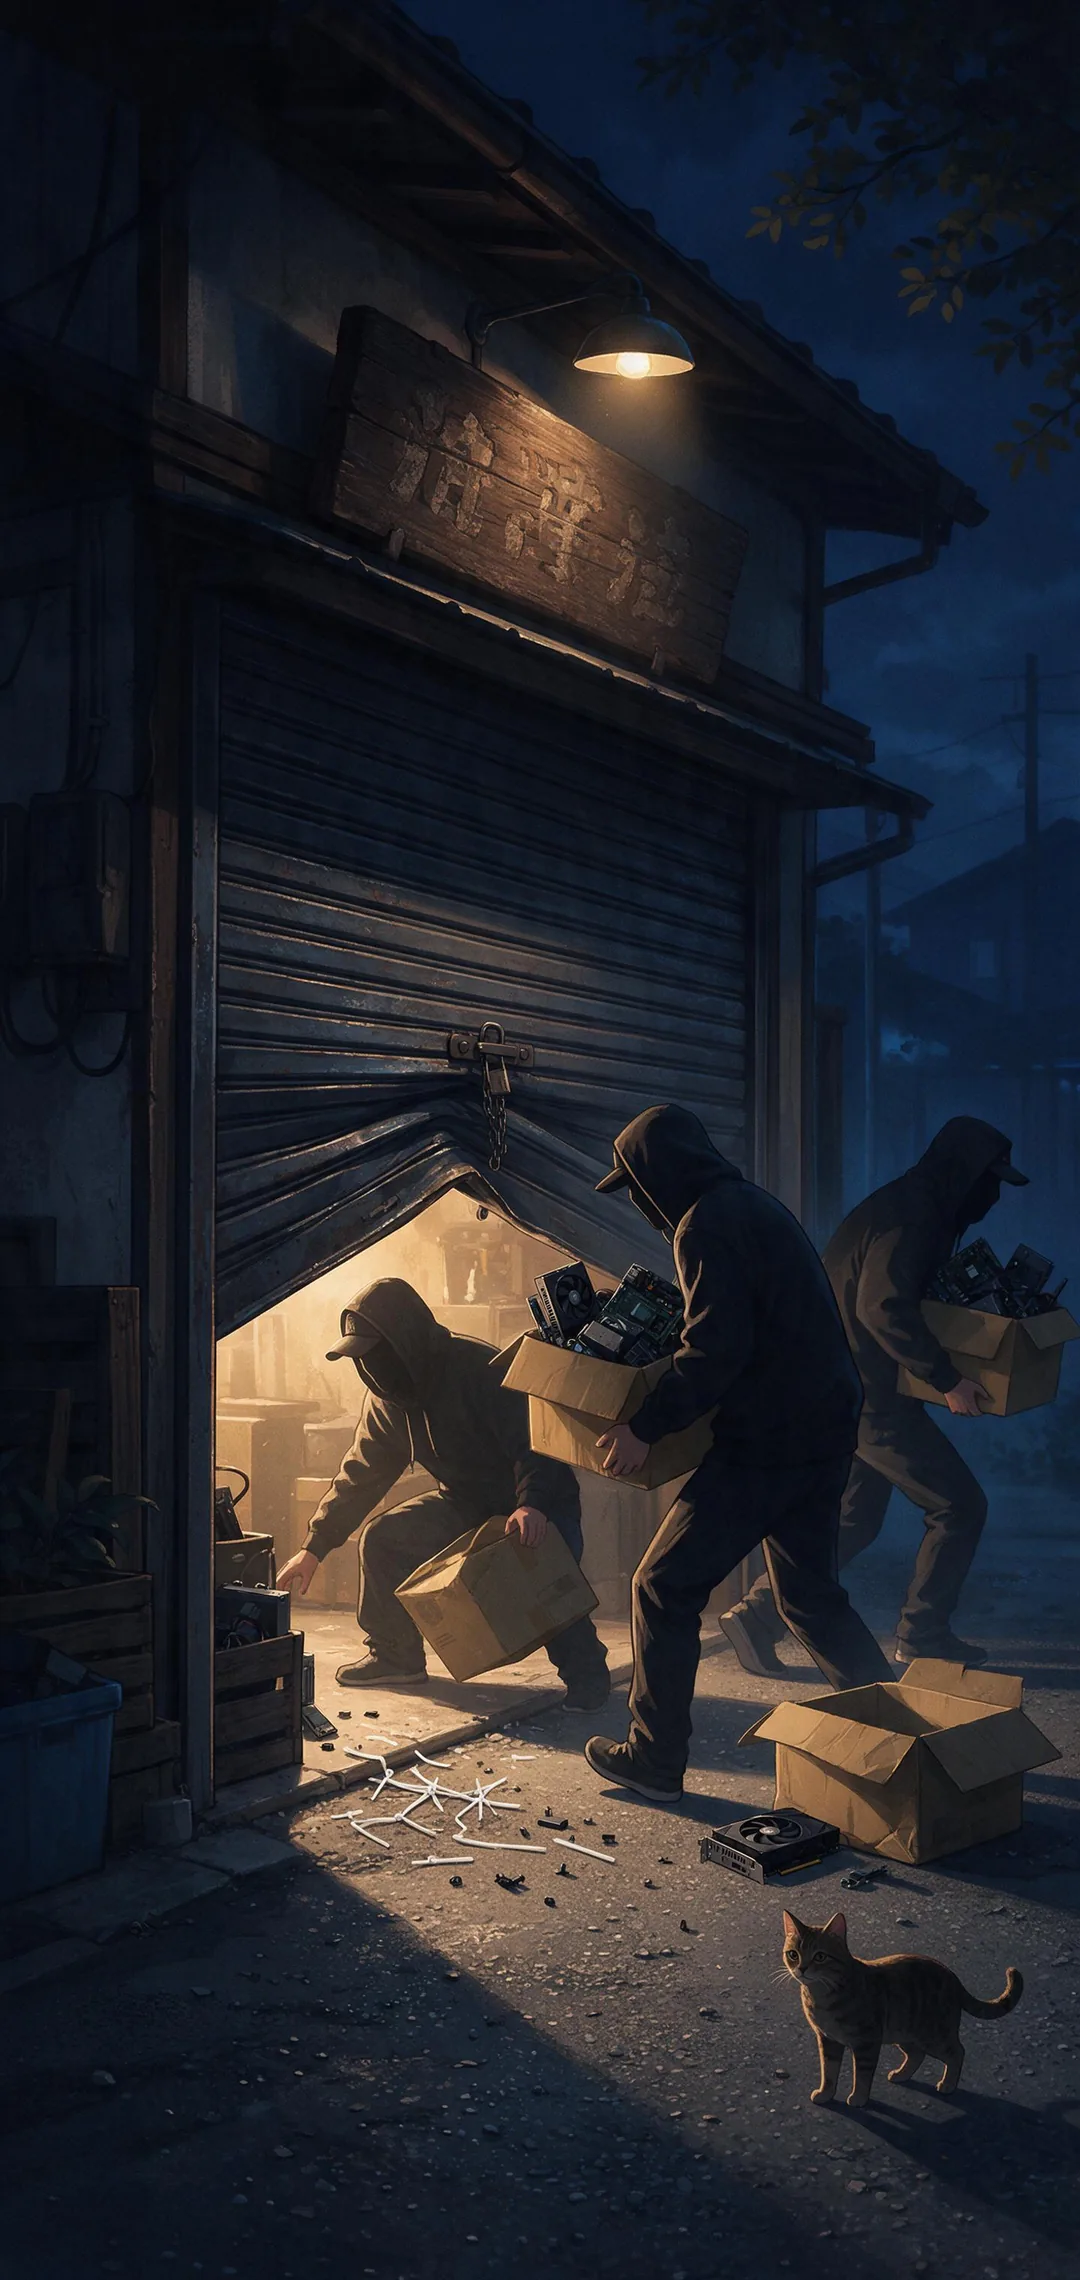
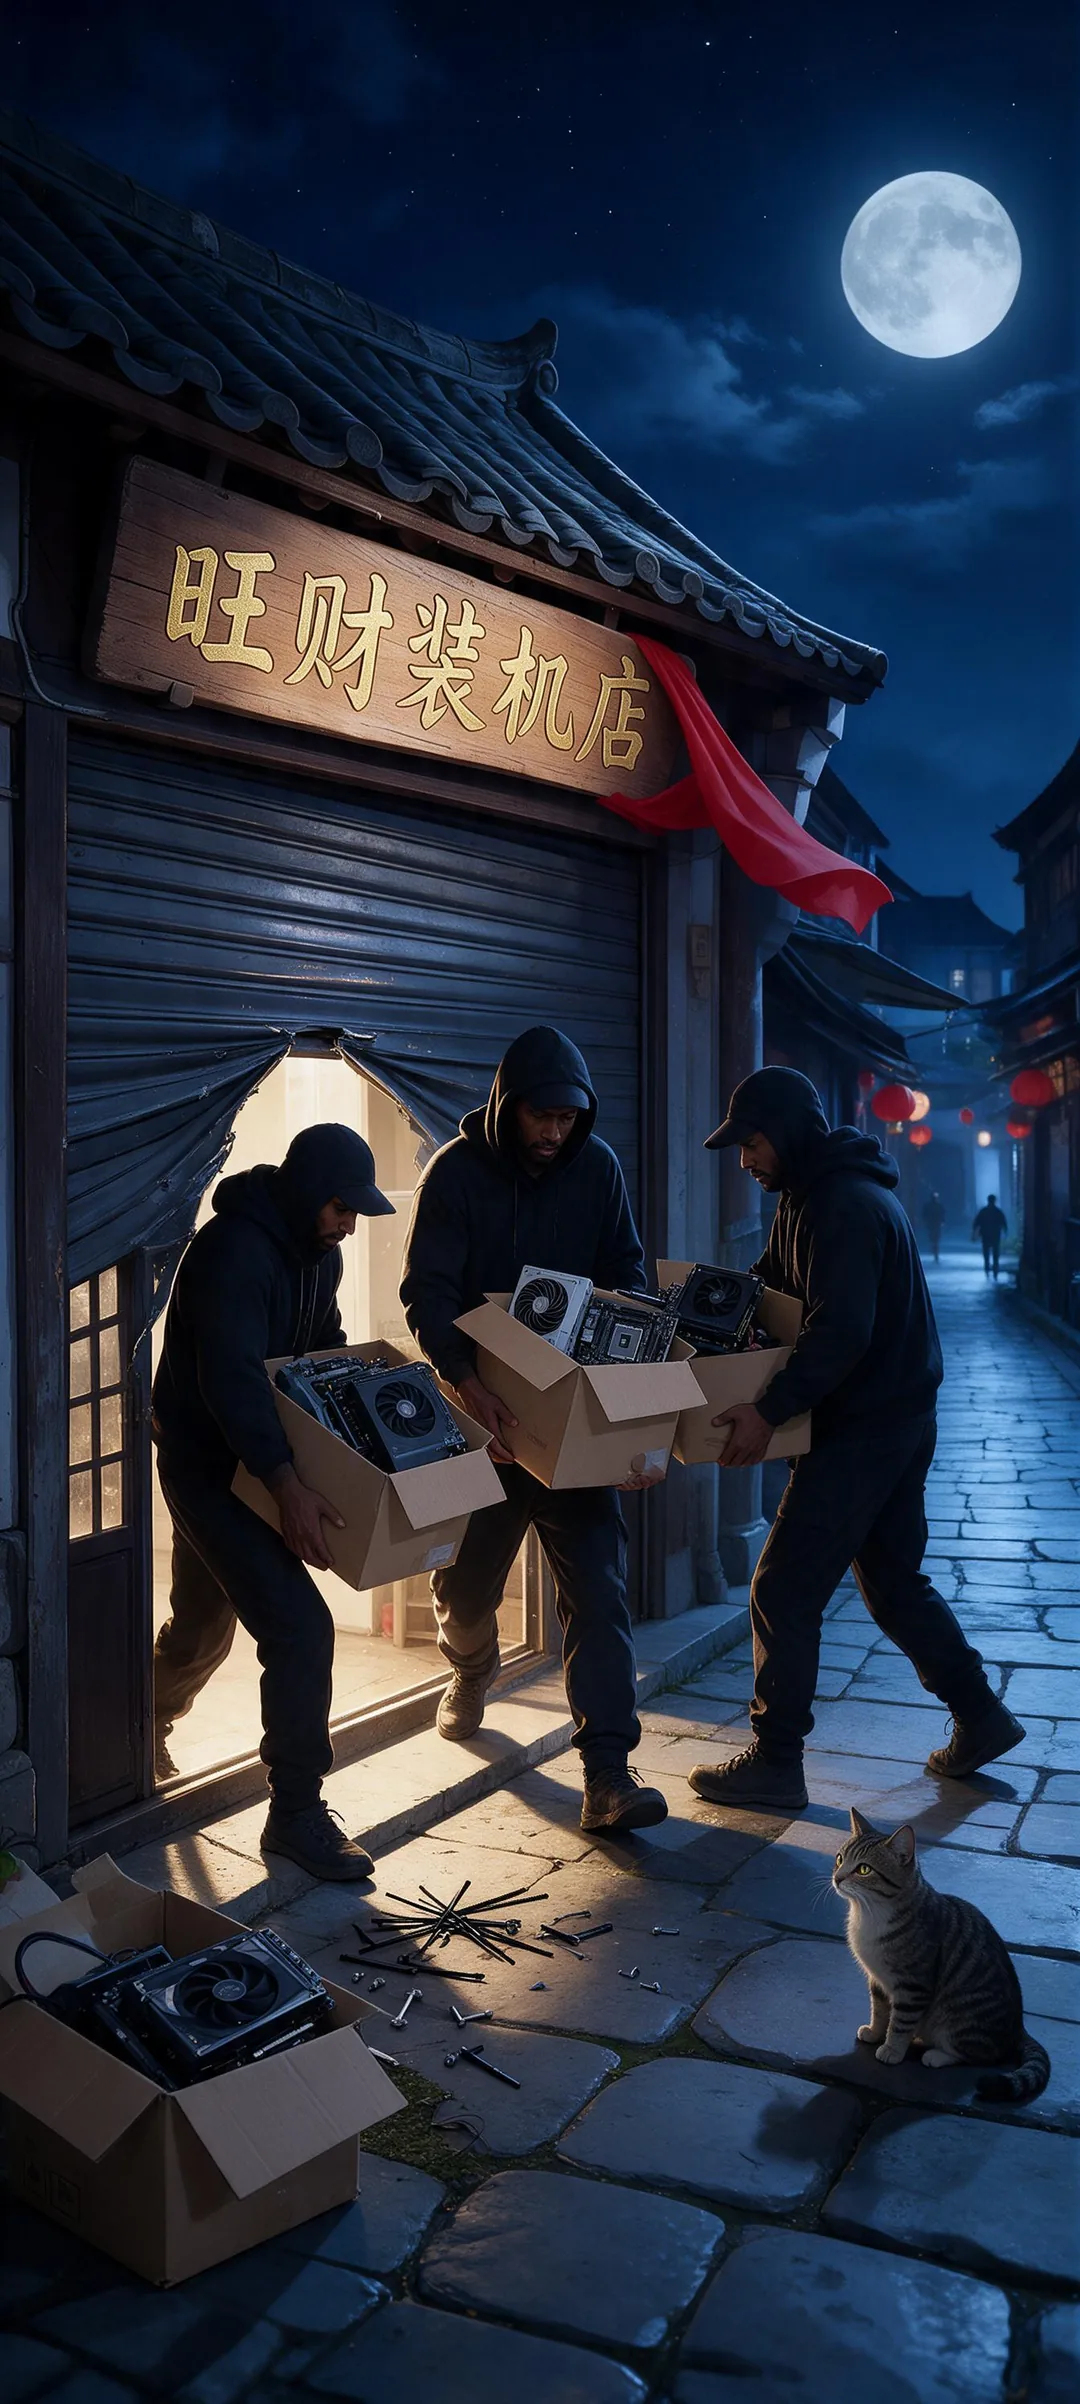
web: 零元购CG替换

diff --git a/wc/index.html b/wc/index.html
@@ -4055,11 +4055,11 @@ body.story-mode #mNav{visibility:hidden!important}
 <div id="bootStill" class="on"></div>
 <!-- 网页启动页已删除（只保留开局加载页） -->
 </div>
-<script src="assets/art-portrait-video.js?v=01296"></script>
-<script src="assets/art-coach-full.js?v=01296"></script>
-<script src="assets/art-coach-voice.js?v=01296"></script>
-<script src="assets/art-extra-1.js?v=01296"></script>
-<script src="assets/art-bench.js?v=01296"></script>
+<script src="assets/art-portrait-video.js?v=01297"></script>
+<script src="assets/art-coach-full.js?v=01297"></script>
+<script src="assets/art-coach-voice.js?v=01297"></script>
+<script src="assets/art-extra-1.js?v=01297"></script>
+<script src="assets/art-bench.js?v=01297"></script>
 
 
 <!-- QQ 内置浏览器（X5）兼容性太差：不尝试渲染游戏，直接引导去系统浏览器 -->
@@ -4073,7 +4073,7 @@ body.story-mode #mNav{visibility:hidden!important}
     <button class="qqBtn" id="qqCopy" type="button">复制网址</button>
   </div>
 </div>
-<script src="assets/misc-ua-guard.js?v=01296"></script>
+<script src="assets/misc-ua-guard.js?v=01297"></script>
 
 <svg width="0" height="0" style="position:absolute" aria-hidden="true"><defs>
 <symbol id="i-cpu" viewBox="0 0 24 24"><rect x="6" y="6" width="12" height="12" rx="2"/><rect x="9.5" y="9.5" width="5" height="5" rx="1"/><path d="M9 3v3M15 3v3M9 18v3M15 18v3M3 9h3M3 15h3M18 9h3M18 15h3"/></symbol>
@@ -4316,14 +4316,14 @@ body.story-mode #mNav{visibility:hidden!important}
   <div class="acts"><button id="smaskNo">关闭</button></div>
 </div></div>
 
-<script src="assets/lib-three.min.js?v=01296"></script>
-<script src="assets/lib-case3d.js?v=01296"></script>
-<script src="assets/art-extra-2.js?v=01296"></script>
-<script src="assets/art-core.js?v=01296"></script>
-<script src="assets/game.js?v=01296"></script>
-<script src="assets/misc-stats.js?v=01296"></script>
+<script src="assets/lib-three.min.js?v=01297"></script>
+<script src="assets/lib-case3d.js?v=01297"></script>
+<script src="assets/art-extra-2.js?v=01297"></script>
+<script src="assets/art-core.js?v=01297"></script>
+<script src="assets/game.js?v=01297"></script>
+<script src="assets/misc-stats.js?v=01297"></script>
 
-<script src="assets/lib-live2d.js?v=01296"></script>
+<script src="assets/lib-live2d.js?v=01297"></script>
 <div class="buildFlash" id="buildFlash">
   <div class="bfInner">
     <div class="bfTop"><span class="bfDot"></span>装机台 · 实时</div>
@@ -4345,8 +4345,8 @@ body.story-mode #mNav{visibility:hidden!important}
     <div class="tutActs"><button id="tutVoice" class="tutBtn ghost">🔊 语音</button><button id="tutSkip" class="tutBtn ghost">跳过引导</button><button id="tutNext" class="tutBtn main">知道了</button></div>
   </div>
 </div>
-<script src="assets/misc-tut-next.js?v=01296"></script>
-<script src="assets/misc-fx-prefs.js?v=01296"></script>
+<script src="assets/misc-tut-next.js?v=01297"></script>
+<script src="assets/misc-fx-prefs.js?v=01297"></script>
 <style id="a11yMotion">
 /* 立绘「非当前说话者」：降亮度/饱和，不做半透明 */
 #tutVid.is-idle{filter:brightness(.82) saturate(.88) drop-shadow(0 18px 30px rgba(0,0,0,.5))}
@@ -4396,13 +4396,13 @@ body.no-motion .tutGal .gal-sprite.show{animation:none!important}
 /* 标题页右下角已经有 #tVer 了，别叠两层 */
 body.title-open #verMark{display:none!important}
 </style>
-<script src="assets/misc-mobile-dialog.js?v=01296"></script>
-<script src="assets/art-sprites.js?v=01296"></script>
-<script src="assets/misc-version-check.js?v=01296"></script>
-<script src="assets/misc-debug-panel.js?v=01296"></script>
+<script src="assets/misc-mobile-dialog.js?v=01297"></script>
+<script src="assets/art-sprites.js?v=01297"></script>
+<script src="assets/misc-version-check.js?v=01297"></script>
+<script src="assets/misc-debug-panel.js?v=01297"></script>
 
-<script src="assets/misc-context-menu.js?v=01296"></script>
+<script src="assets/misc-context-menu.js?v=01297"></script>
 <!-- 音乐播放器：独立文件，资源包在 music/。删掉这一行就整体去掉，不影响游戏 -->
-<script src="music-player.js?v=01296" defer></script>
+<script src="music-player.js?v=01297" defer></script>
 </body>
 </html>

diff --git a/wc/assets/game.js b/wc/assets/game.js
@@ -34,7 +34,7 @@
 /* ================= 基础 ================= */
 const APP_VER='v0.12.0';
 /* 小更新只 +1 这个构建号（5 位，自动补零）；大改才动 APP_VER 并把它归零为 00001 */
-const APP_BUILD='01296';
+const APP_BUILD='01297';
 window.__BOOT_OK=1;
 const APP_FULL=APP_VER+'.'+APP_BUILD;
 /* 水印上统一的写法：v0.12.0 · 01182 */
@@ -9672,6 +9672,7 @@ renderAll();
 
   /* ---- 内容更新通知：换了内容版本，进游戏弹一次游戏风弹窗 ---- */
   var BUILD_NOTES={
+    '01297':['零元购 CG 换成自家店门口实景夜戏'],
     '01296':['开局仓库送一批新货；新增零元购→报警→刘警官→半月重开张剧情'],
     '01295':['剧情卡只认按钮，防止手滑闪页'],
     '01294':['切到后台自动暂停音乐，回来继续'],
